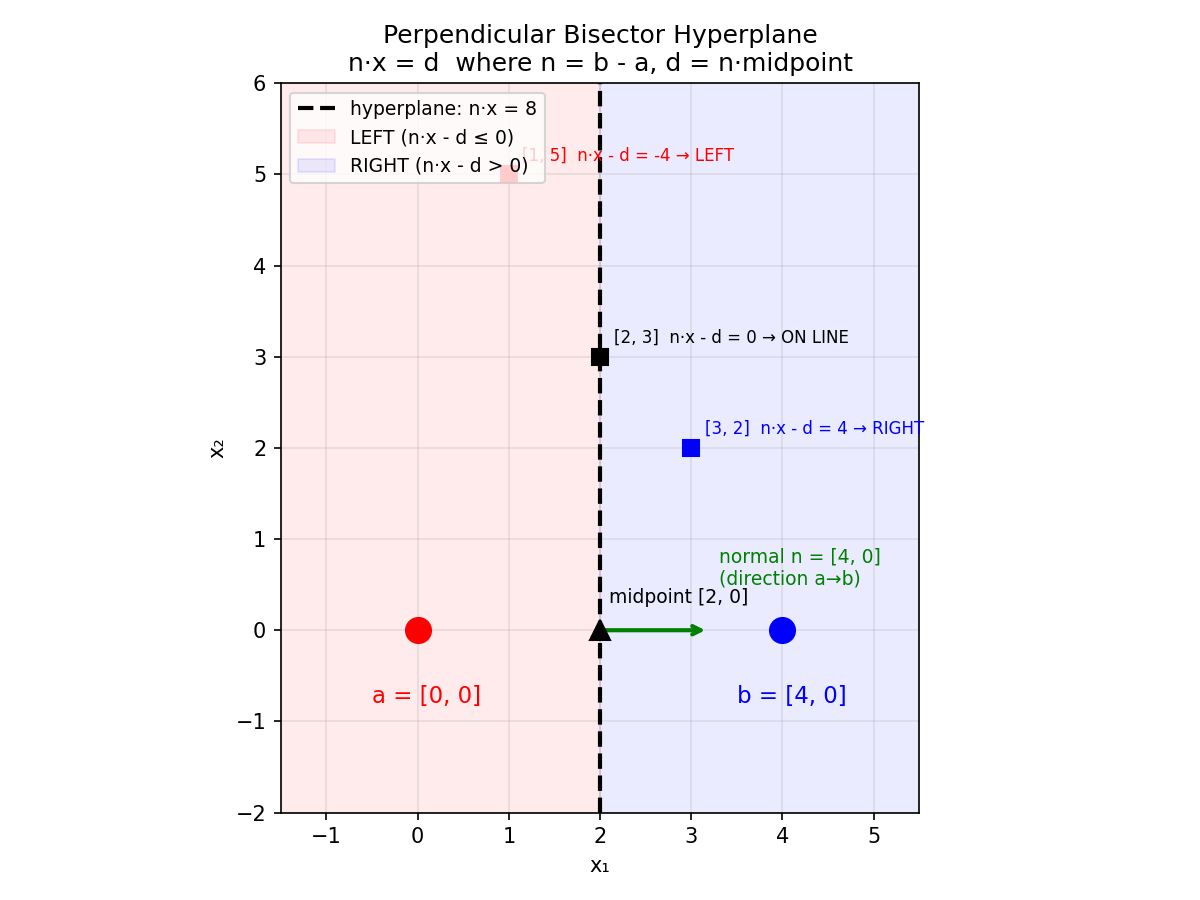
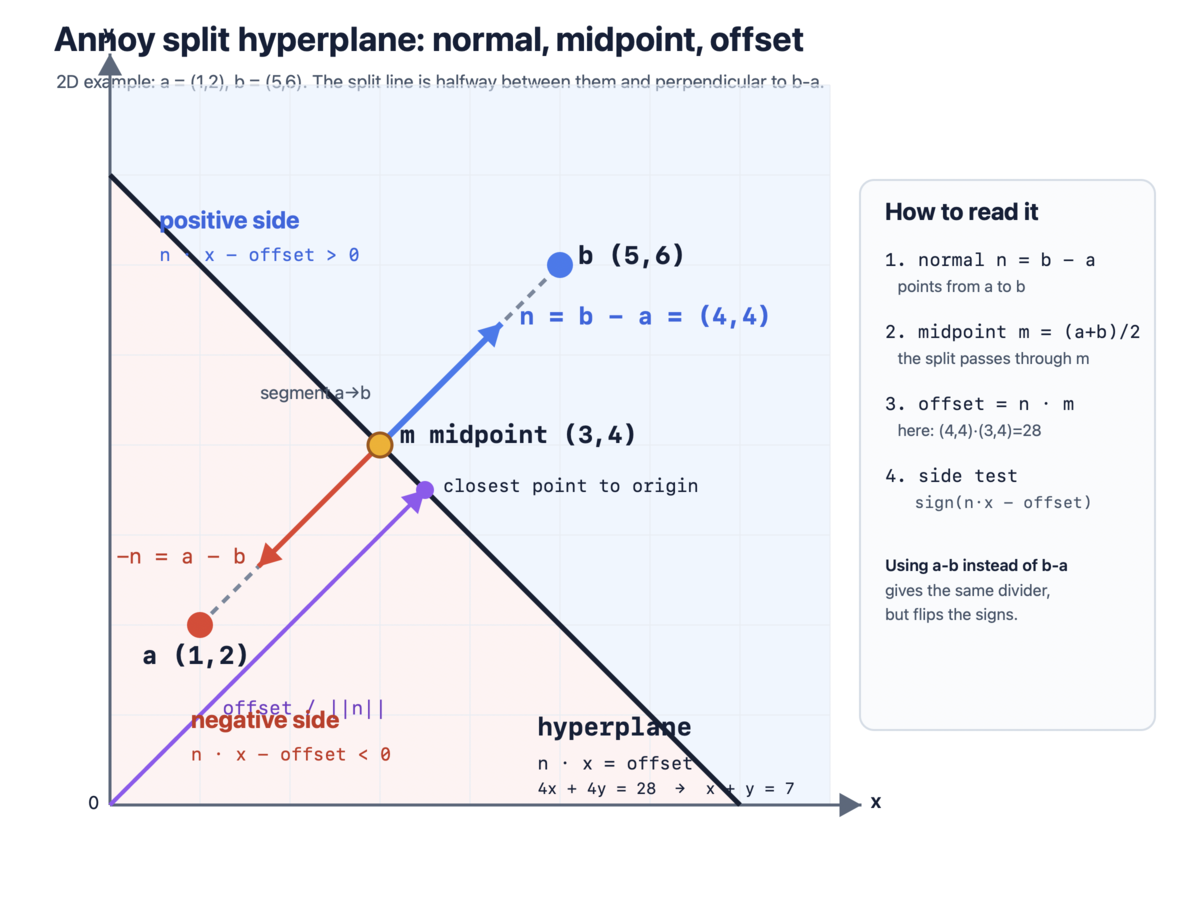
annoy impl

diff --git a/cpp/src/annoy.cpp b/cpp/src/annoy.cpp
@@ -1,36 +1,157 @@
 #include "star_nn/annoy.h"
+#include "star_nn/knn.h"
+
+#include <algorithm>
+#include <cstddef>
+#include <numeric>
+#include <random>
+#include <ranges>
+#include <unordered_set>
+#include <vector>
 
 namespace star_nn {
 
+using std::size_t;
+
 double dot(const Vector &a, const Vector &b) {
-  (void)a;
-  (void)b;
-  return 0.0;
+  // a · b = Σ(a_i * b_i)
+  double d = 0.0;
+  for (const auto [ai, bi] : std::views::zip(a, b)) {
+    d += ai * bi;
+  }
+  return d;
 }
 
-std::pair<Vector, double> make_split_hyperplane(const Vector &point_a,
-                                                const Vector &point_b) {
-  (void)point_a;
-  (void)point_b;
-  return {{}, 0.0};
+std::pair<Vector, double> make_split_hyperplane(const Vector &a,
+                                                const Vector &b) {
+  Vector normal = std::vector<double>();
+  Vector midpoint = std::vector<double>();
+  for (const auto [ai, bi] : std::views::zip(a, b)) {
+    normal.push_back(bi - ai);
+    midpoint.push_back((ai + bi) / 2.0);
+  }
+  const auto offset = dot(normal, midpoint);
+
+  return {normal, offset};
 }
 
 AnnoyIndex::AnnoyIndex(std::size_t n_trees, std::size_t max_leaf_size)
     : n_trees_(n_trees), max_leaf_size_(max_leaf_size) {}
 
-void AnnoyIndex::build(const Dataset &training_data) { (void)training_data; }
+std::pair<std::vector<size_t>, std::vector<size_t>>
+AnnoyIndex::split_over_hyperplane_(const std::vector<size_t> indices,
+                                   Vector normal, double offset) {
+  auto left = std::vector<size_t>();
+  auto right = std::vector<size_t>();
+
+  for (const auto idx : indices) {
+    const auto &point = this->training_data_[idx].features;
+    const auto is_left = (dot(normal, point) - offset) <= 0;
+    if (is_left)
+      left.push_back(idx);
+    else
+      right.push_back(idx);
+  }
+  return {left, right};
+}
+
+std::unique_ptr<Node>
+AnnoyIndex::build_tree_(const std::vector<size_t> indices) {
+  if (indices.size() <= this->max_leaf_size_) {
+    auto node = std::make_unique<Node>();
+    node->is_leaf = true;
+    node->indices = indices;
+    return node;
+  }
+
+  static std::mt19937 rng(std::random_device{}());
+  std::uniform_int_distribution<std::size_t> dist(0, indices.size() - 1);
+  const std::size_t pos_a = dist(rng);
+  const std::size_t pos_b = dist(rng);
+  const auto idx_a = indices[pos_a];
+  const auto idx_b = indices[pos_b];
+
+  const auto &point_a = training_data_[idx_a].features;
+  const auto &point_b = training_data_[idx_b].features;
+
+  const auto [normal, offset] = make_split_hyperplane(point_a, point_b);
+  const auto [left_indices, right_indices] =
+      split_over_hyperplane_(indices, normal, offset);
+
+  auto left = build_tree_(left_indices);
+  auto right = build_tree_(right_indices);
+
+  auto node = std::make_unique<Node>();
+  node->is_leaf = false;
+  node->indices = indices;
+  node->left = std::move(left);
+  node->right = std::move(right);
+  node->normal = normal;
+  node->offset = offset;
+  return node;
+}
+
+void AnnoyIndex::build(const Dataset &training_data) {
+  this->training_data_ = training_data;
+
+  std::vector<std::size_t> indices(training_data_.size());
+  std::iota(indices.begin(), indices.end(), 0);
+
+  for (size_t i = 0; i < n_trees_; ++i) {
+    auto root = build_tree_(indices);
+    forest_.push_back(std::move(root));
+  }
+}
+
+std::vector<size_t> AnnoyIndex::query_tree_(const Node *tree,
+                                            const Vector query) const {
+  if (tree->is_leaf)
+    return tree->indices;
+
+  const auto is_left = (dot(tree->normal, query) - tree->offset) <= 0;
+  if (is_left)
+    return query_tree_(tree->left.get(), query);
+  else
+    return query_tree_(tree->right.get(), query);
+}
 
 std::vector<std::size_t> AnnoyIndex::query(const Vector &query,
                                            std::size_t k) const {
   (void)query;
   (void)k;
-  return {};
+  std::unordered_set<std::size_t> candidate_set;
+
+  for (const auto &tree : forest_) {
+    auto indices = query_tree_(tree.get(), query);
+    candidate_set.insert(indices.begin(), indices.end());
+  }
+
+  std::vector<std::size_t> candidates(candidate_set.begin(),
+                                      candidate_set.end());
+  std::sort(candidates.begin(), candidates.end(),
+            [&](std::size_t a, std::size_t b) {
+              return euclidean_distance(training_data_[a].features, query) <
+                     euclidean_distance(training_data_[b].features, query);
+            });
+
+  if (candidates.size() > k) {
+    candidates.resize(k);
+  }
+
+  return candidates;
 }
 
 double AnnoyIndex::evaluate(const Dataset &test_data, std::size_t k) const {
-  (void)test_data;
-  (void)k;
-  return 0.0;
+  std::size_t correct = 0;
+
+  for (const auto &dp : test_data) {
+    const auto neighbors = query(dp.features, k);
+    if (classify(neighbors, training_data_) == dp.label) {
+      ++correct;
+    }
+  }
+
+  return static_cast<double>(correct) / test_data.size();
 }
 
 std::size_t AnnoyIndex::n_trees() const { return n_trees_; }

diff --git a/cpp/tests/test_annoy.cpp b/cpp/tests/test_annoy.cpp
@@ -1,15 +1,18 @@
 #include <cassert>
 #include <cmath>
+#include <iostream>
 
 #include "star_nn/annoy.h"
 
 using star_nn::Dataset;
 
 int main() {
+  std::cout << "Testing dot product...\n";
   assert(star_nn::dot({1.0, 0.0}, {1.0, 0.0}) == 1.0);
   assert(star_nn::dot({1.0, 2.0}, {3.0, 4.0}) == 11.0);
   assert(star_nn::dot({0.0, 0.0}, {5.0, 5.0}) == 0.0);
 
+  std::cout << "Testing split hyperplane math...\n";
   const auto [normal, offset] =
       star_nn::make_split_hyperplane({0.0, 0.0}, {2.0, 0.0});
   assert(std::abs(star_nn::dot(normal, {1.0, 0.0}) - offset) < 1e-9);
@@ -23,21 +26,27 @@ int main() {
       {{10.1, 10.2}, "B"},
   };
 
+  std::cout << "Testing Annoy constructor...\n";
   star_nn::AnnoyIndex index(5, 3);
   assert(index.n_trees() == 5);
   assert(index.max_leaf_size() == 3);
 
+  std::cout << "Testing Annoy build...\n";
   index.build(data);
   assert(index.forest().size() == 5);
 
+  std::cout << "Testing Annoy query near A cluster...\n";
   const auto neighbors_a = index.query({0.05, 0.05}, 3);
   assert(neighbors_a.size() == 3);
   for (const auto neighbor : neighbors_a) {
     assert(neighbor < 5);
   }
 
+  std::cout << "Testing Annoy query near B cluster...\n";
   const auto neighbors_b = index.query({10.05, 10.05}, 3);
   for (const auto neighbor : neighbors_b) {
     assert(neighbor >= 5);
   }
+
+  std::cout << "Annoy tests passed.\n";
 }

diff --git a/cpp/include/star_nn/annoy.h b/cpp/include/star_nn/annoy.h
@@ -35,6 +35,14 @@ public:
   const std::vector<std::unique_ptr<Node>> &forest() const;
 
 private:
+  std::unique_ptr<Node> build_tree_(const std::vector<size_t> indices);
+
+  std::pair<std::vector<size_t>, std::vector<size_t>>
+  split_over_hyperplane_(const std::vector<size_t> indices, Vector normal,
+                         double offset);
+
+  std::vector<size_t> query_tree_(const Node *tree, const Vector query) const;
+
   std::size_t n_trees_;
   std::size_t max_leaf_size_;
   std::vector<std::unique_ptr<Node>> forest_;
